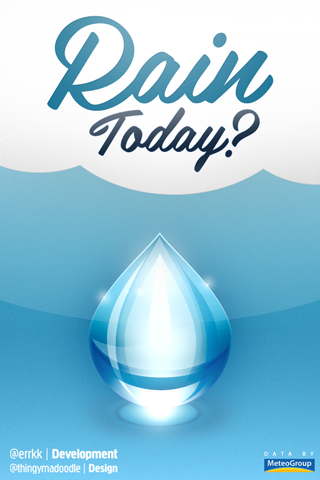
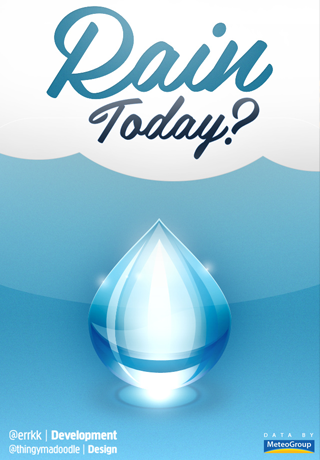
trying another res

diff --git a/www/index.html b/www/index.html
@@ -21,7 +21,6 @@
   
   <script>(function(a,b,c){if(c in b&&b[c]){var d,e=a.location,f=/^(a|html)$/i;a.addEventListener("click",function(a){d=a.target;while(!f.test(d.nodeName))d=d.parentNode;"href"in d&&(d.href.indexOf("http")||~d.href.indexOf(e.host))&&(a.preventDefault(),e.href=d.href)},!1)}})(document,window.navigator,"standalone")</script>
   
-  <link sizes="640x920" rel="apple-touch-startup-image" href="img/raindrop_l.png">
   <link rel="apple-touch-startup-image" href="img/raindrop.png">
 
   <!-- Mobile IE allows us to activate ClearType technology for smoothing fonts for easy reading -->
